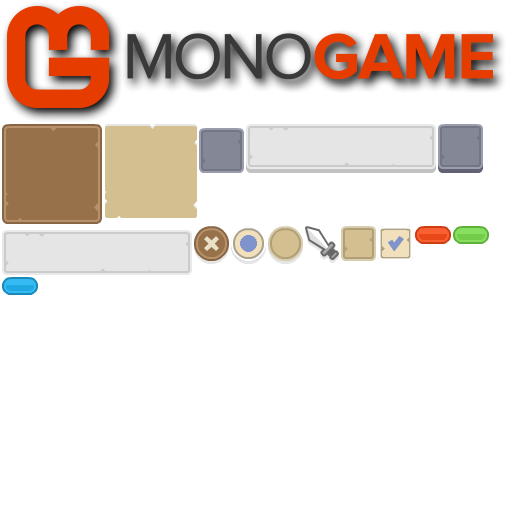
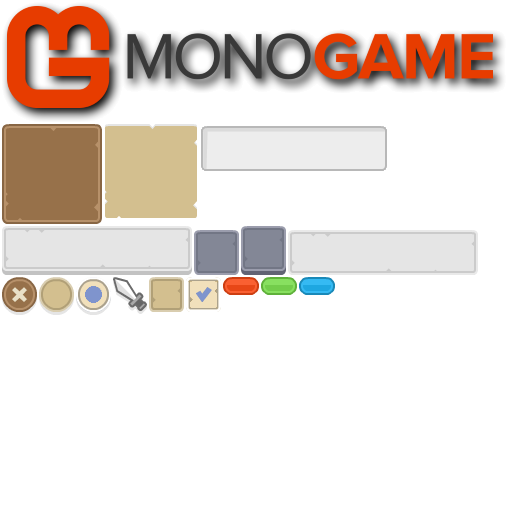
started working on editable textbox

Changed region(s): [[0.0, 0.4375, 0.9688, 0.625], [0.375, 0.2188, 0.9688, 0.3438]]

diff --git a/Source/MonoGame.Extended.Gui/Controls/GuiTextBox.cs b/Source/MonoGame.Extended.Gui/Controls/GuiTextBox.cs
@@ -1,0 +1,38 @@
+using Microsoft.Xna.Framework.Input;
+using MonoGame.Extended.InputListeners;
+using MonoGame.Extended.TextureAtlases;
+
+namespace MonoGame.Extended.Gui.Controls
+{
+    public class GuiTextBox : GuiControl
+    {
+        public GuiTextBox()
+            : this(textureRegion: null, text: string.Empty)
+        {
+        }
+
+        public GuiTextBox(TextureRegion2D textureRegion)
+            : this(textureRegion: textureRegion, text: string.Empty)
+        {
+        }
+
+        public GuiTextBox(TextureRegion2D textureRegion, string text)
+            : base(textureRegion)
+        {
+            Text = text;
+            IsKeyboardFocused = false;
+        }
+
+        public bool IsKeyboardFocused { get; set; }
+
+        public override void OnKeyTyped(KeyboardEventArgs args)
+        {
+            base.OnKeyTyped(args);
+
+            if (args.Key == Keys.Back && Text.Length > 0)
+                Text = Text.Substring(0, Text.Length - 1);
+            else
+                Text += args.Character;
+        }
+    }
+}

diff --git a/Source/MonoGame.Extended.Gui/Controls/GuiCheckbox.cs b/Source/MonoGame.Extended.Gui/Controls/GuiCheckbox.cs
@@ -4,13 +4,13 @@ using MonoGame.Extended.TextureAtlases;
 
 namespace MonoGame.Extended.Gui.Controls
 {
-    public class GuiCheckbox : GuiControl
+    public class GuiCheckBox : GuiControl
     {
-        public GuiCheckbox()
+        public GuiCheckBox()
         {
         }
 
-        public GuiCheckbox(TextureRegion2D textureRegion)
+        public GuiCheckBox(TextureRegion2D textureRegion)
             : base(textureRegion)
         {
         }
